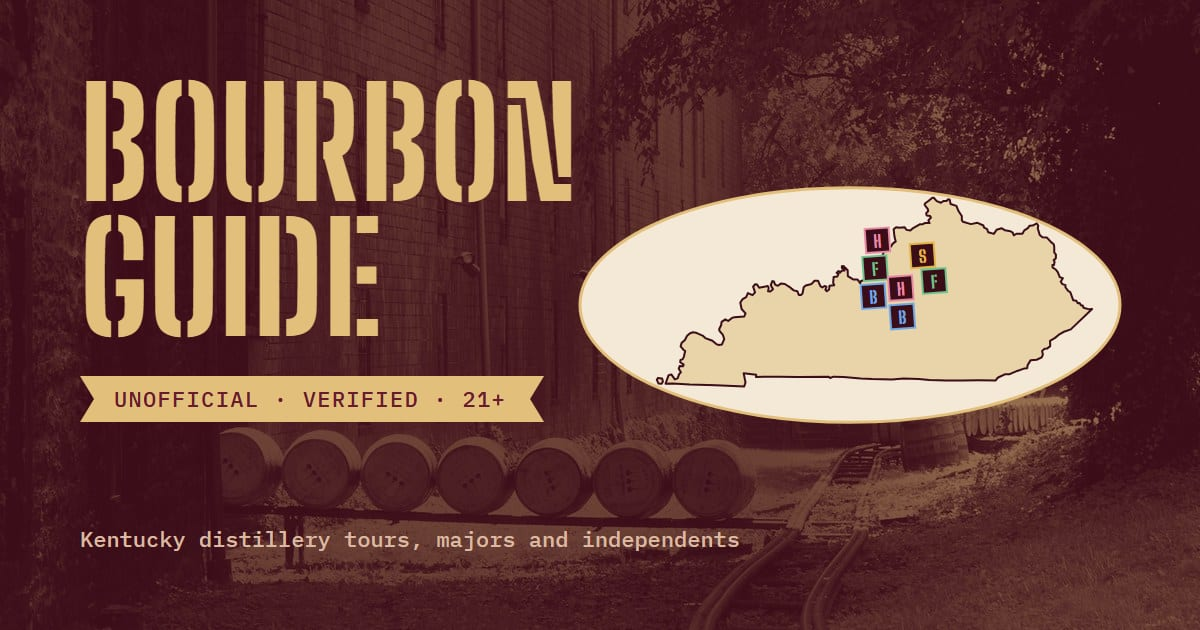
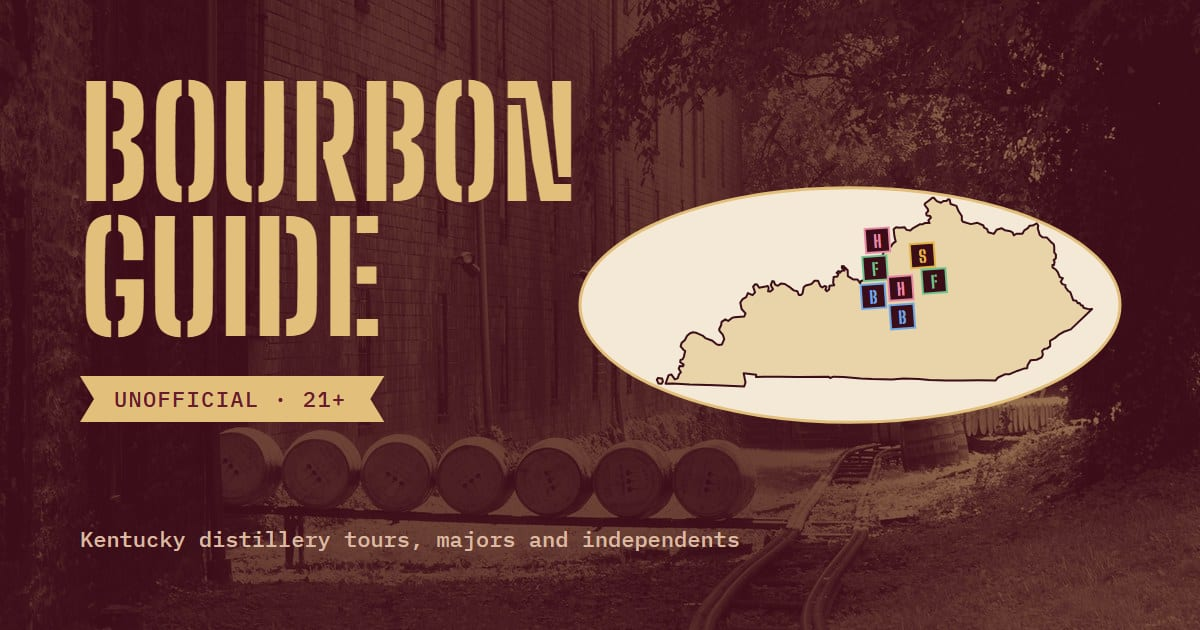
Copy: drop verified counts, say unofficial once

Changed region(s): [[0.2467, 0.573, 0.4625, 0.6937]]

diff --git a/src/app/page.tsx b/src/app/page.tsx
@@ -12,7 +12,7 @@ export default function Home() {
       <script type="application/ld+json" dangerouslySetInnerHTML={{ __html: homeJsonLd(entries) }} />
       <header className="mb-3 text-center">
         <p className="inline-block bg-gold px-3 py-1 text-[11px] font-semibold tracking-[0.2em] text-wine">
-          UNOFFICIAL · VERIFIED · <span className="font-stencil text-sm font-extrabold tracking-[0.08em]">21+</span>
+          UNOFFICIAL · <span className="font-stencil text-sm font-extrabold tracking-[0.08em]">21+</span>
         </p>
         <h1 className="mt-4 font-stencil text-[62px] leading-[0.92] font-extrabold tracking-wide text-gold uppercase md:text-[96px]">
           {MAP.title.split(' ').map((word, i) => (
@@ -22,7 +22,7 @@ export default function Home() {
             </span>
           ))}
         </h1>
-        <p className="mx-auto mt-4 max-w-3xl text-sm">An unofficial guide to {PLACE}&apos;s distilleries, from the major producers to the independents.</p>
+        <p className="mx-auto mt-4 max-w-3xl text-sm">A guide to {PLACE}&apos;s distilleries, from the major producers to the independents.</p>
       </header>
       <Explorer entries={entries} layout={layout} />
     </main>

diff --git a/src/components/Explorer.tsx b/src/components/Explorer.tsx
@@ -275,7 +275,6 @@ export default function Explorer({ entries, layout }: { entries: Stop[]; layout:
     [entries, show],
   )
   const hasMajors = layer.some((d) => d.scale === 'major')
-  const verified = layer.filter((d) => d.verifiedOn !== null).length
   const groupsInView = new Set(layer.map((d) => d.groupId).filter(Boolean)).size
   const showGroups = show !== 'independents'
   const trailOptions = useMemo(
@@ -416,7 +415,7 @@ export default function Explorer({ entries, layout }: { entries: Stop[]; layout:
   return (
     <div>
       <p className="tabular text-center text-xs text-muted">
-        {layer.length} in view · {verified} verified
+        {layer.length} in view
         {hasMajors && ` · ${groupsInView} ${groupsInView === 1 ? 'group' : 'groups'}`}
       </p>
 

diff --git a/src/components/SiteFooter.tsx b/src/components/SiteFooter.tsx
@@ -20,9 +20,7 @@ export default function SiteFooter() {
   const latest = dates.length ? dates.reduce((a, b) => (a > b ? a : b)) : null
   const parts = [
     `${entries.length} distilleries`,
-    `${dates.length} verified`,
     latest ? `Last checked ${formatDate(latest)}` : null,
-    'Unofficial',
     '21+',
     'Built by Peachy Kean DevOps, LLC',
   ].filter(Boolean)

diff --git a/CLAUDE.md b/CLAUDE.md
@@ -82,7 +82,7 @@ Next.js 16 App Router, TypeScript strict, Tailwind CSS 4. No plain JavaScript.
 ## Tone and compliance (non-negotiable)
 - Copy says "visit" and "explore". Never "drink", "shot", "taste", "buzz", "collect" or "reward".
 - 21+ notice on every page (including 404 and error) and in the footer.
-- Footer status line, computed from the data: "N distilleries · X verified · Last checked <latest verifiedOn> · Unofficial · 21+ · Built by Peachy Kean DevOps, LLC".
+- Footer status line, computed from the data: "N distilleries · Last checked <latest verifiedOn> · 21+ · Built by Peachy Kean DevOps, LLC".
 - No levels, badges, streaks or rewards tied to consumption.
 - Only freely licensed photos (public domain, CC0, CC BY) recorded in `src/data/images.json`, with the credit shown in the footer; no logos or brand marks in any image. No agency or association seals or logos. No bottle imagery suggesting drinking.
 
